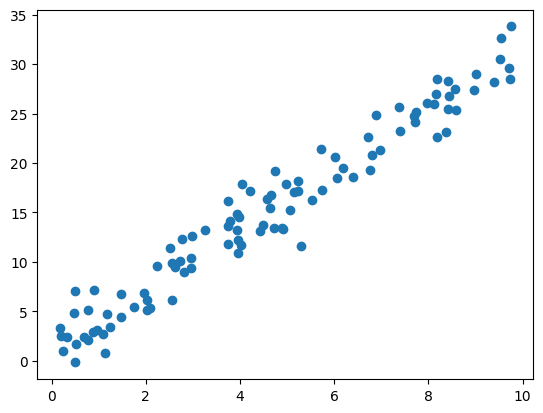
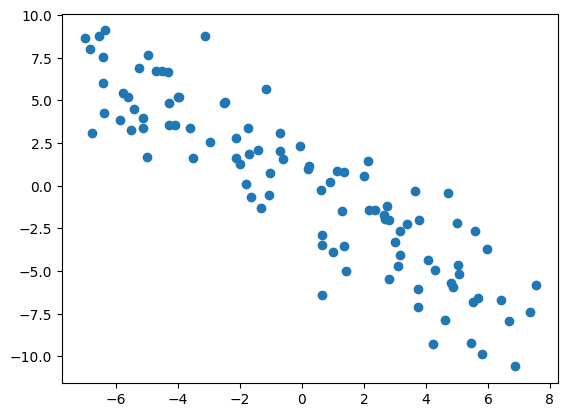
WIP: still writing TP 1

diff --git a/content/articles/tp-1.md b/content/articles/tp-1.md
@@ -5,6 +5,13 @@ images:
 - https://cs231n.github.io/assets/nn1/neural_net.jpeg
 ---
 
+<script type="text/x-mathjax-config">
+  MathJax.Hub.Config({tex2jax: {inlineMath: [['$','$'], ['\\(','\\)']]}});
+</script>
+<script type="text/javascript"
+  src="http://cdnjs.cloudflare.com/ajax/libs/mathjax/2.7.1/MathJax.js?config=TeX-AMS-MML_HTMLorMML">
+</script>
+
 In this first practical work, we'll be experimenting with simple neural networks on simple datasets.
 
 # Get Setup
@@ -35,11 +42,62 @@ In this first practical work you'll be creating a simple neural network in PyTor
 
 PyTorch is one of the leading open-source machine learning frameworks to design, train and run inference on neural networks. It is developped by Meta AI.
 
-A lot of machine learning software made by big companies is made using PyTorch, even the Tesla for their Autopilot
+A lot of machine learning software made by big tech companies is made using PyTorch, even Tesla for their Autopilot.
 
-## Fitting a linear function
+## Our First Neural Network!
+
+### Let's start with a linear function
+
+Before starting and creating a neural network, we need to choose a dataset to use so we can experiment on.
+
+To understand the basics when building a neural network, we'll first create our own dummy dataset consisting of a simple linear looking function.
+
+What's a `simple linear looking function you ask`?
+
+Something of the form $y = ax + b$, let's say for example $y = -x + 5$, where $y$ will be our dataset that contains all the possible points that will be created by all the possible $x$ values we input.
+
+![linear_line](https://upload.wikimedia.org/wikipedia/commons/thumb/0/0e/Linear_Function_Graph.svg/1280px-Linear_Function_Graph.svg.png)
+*<center><small>Example linear functions.</small></center>*
+
+Let's recreate this function in PyTorch:
+
+```Python
+def create_dataset(n_data:int = 100, a:float = -1.0, b:float = 5, scale:int = 15) -> torch.tensor:
+    # Generate random data as inputs
+    x = torch.rand(n_data, 1) * scale  # n_data=100 random numbers scaled between 0 and scale
+
+    # Calculate corresponding y values
+    y = a * x + b
+
+    # We center the data by using the mean of all values
+    return x - torch.mean(x), y - torch.mean(y)
+```
+
+![linear_fit](/tp_1_linear_fit_no_noise.png)
+
+Now, let's make it slightly more interesting and make it only look like it's a linear function. For that we'll add some noise. You'll see later that data you find in real life has a lot of noise, meaning it's not perfect.
+
+```Python
+def create_dataset(n_data:int = 100, a:float = -1.0, b:float = 5, scale:int = 15) -> torch.tensor:
+    # Generate random data as inputs
+    x = torch.rand(n_data, 1) * scale  # n_data=100 random numbers scaled between 0 and scale
+
+    # Calculate corresponding y values
+    y = a * x + b
+
+    # Add some noise
+    noise = torch.randn(y.shape) * 2  # Gaussian noise with standard deviation of 2
+    y = y + noise
+
+    # We center the data by using the mean of all values
+    return x - torch.mean(x), y - torch.mean(y)
+```
 
 ![linear_fit](/tp_1_linear_fit.png)
+
+The data looks linear if you look at it from far away which is what we wanted. Let's try to make a simple neural network that will learn to approximately recreate this function.
+
+
 
 # Send it to me!
 
